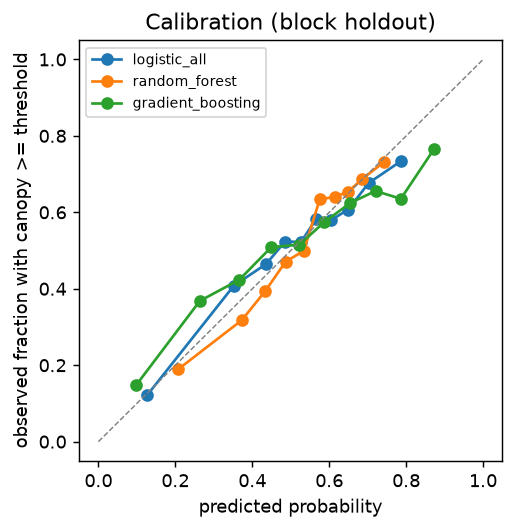
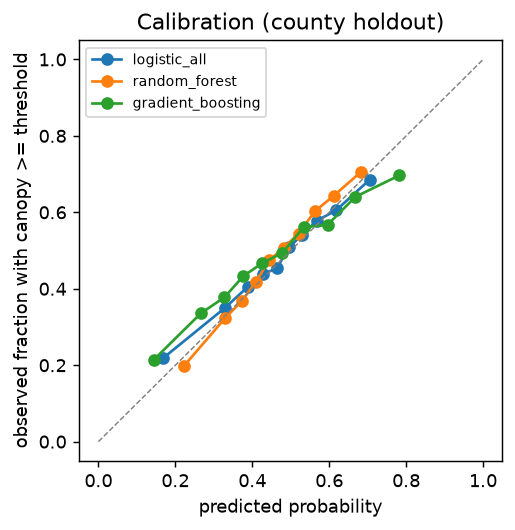
Expand to nine counties: county-holdout results, sensitivity checks, METHODS

Changed region(s): [[0.2485, 0.2717, 0.8699, 0.7547], [0.2485, 0.0, 0.8699, 0.0604]]

diff --git a/src/landscore/models/results_md.py b/src/landscore/models/results_md.py
@@ -45,7 +45,26 @@ def verdict(res: pd.DataFrame, headline: str) -> str:
     )
 
 
-def write_results(df, res, headline, best, figs, path: Path) -> None:
+def _per_county(pc, best) -> str:
+    if pc is None:
+        return ""
+    lines = [
+        f"## Each county held out in turn ({best})",
+        "",
+        "| held-out county | labeled pixels | positive rate | AUC | Brier skill |",
+        "|---|---|---|---|---|",
+    ]
+    for r in pc.itertuples(index=False):
+        lines.append(f"| {r[0]} | {r[1]:,} | {r[2]:.1%} | {r[3]:.3f} | {r[4]:.3f} |")
+    lines.append("")
+    lines.append(
+        "Brier skill below zero means the probabilities were worse than always guessing that "
+        "county's own average, usually because its positive rate differs from the training counties."
+    )
+    return "\n".join(lines) + "\n"
+
+
+def write_results(df, res, headline, best, figs, path: Path, per_county=None) -> None:
     cfg = load_config()
     lab = cfg["labels"]
     counties = ", ".join(sorted(df["county"].unique()))
@@ -83,6 +102,7 @@ base rate, 1 = perfect.
 
 ![model comparison]({figs.get("comparison", "")})
 
+{_per_county(per_county, best)}
 ## Regression target (canopy percent)
 
 {_table(res, "regression", ["r2", "spearman"])}

diff --git a/src/landscore/models/train.py b/src/landscore/models/train.py
@@ -119,7 +119,18 @@ def main(argv: list[str] | None = None) -> int:
     figs = write_figures(df, res, oof, headline, best, seed, a.docs_dir, shap=not a.no_shap)
     from landscore.models.results_md import write_results
 
-    write_results(df, res, headline, best, figs, a.docs_dir / "RESULTS.md")
+    per_county = None
+    if headline == "county":
+        y, pr = df["label_binary"].to_numpy(), oof[("binary", "county", best)]
+        per_county = pd.DataFrame(
+            [
+                {"held-out county": c, **ev.binary_metrics(y[m], pr[m])}
+                for c in sorted(df["county"].unique())
+                for m in [(df["county"] == c).to_numpy()]
+            ]
+        )[["held-out county", "n", "base_rate", "auc", "brier_skill"]]
+        per_county.to_csv(out / "per_county.csv", index=False)
+    write_results(df, res, headline, best, figs, a.docs_dir / "RESULTS.md", per_county)
     (out / "summary.json").write_text(
         json.dumps({"headline": headline, "best": best, "model": str(model_path)}, indent=2)
     )

diff --git a/src/landscore/models/figures.py b/src/landscore/models/figures.py
@@ -76,7 +76,7 @@ def _calibration(df, oof, headline) -> str:
     return _save(fig, "calibration.png")
 
 
-def _shap(df, best, seed, n=3000) -> str:
+def _shap(df, best, seed, n=1500) -> str:
     import shap
 
     spec = next(s for s in model_specs(list(df.columns)) if s.name == best)

diff --git a/docs/METHODS.md b/docs/METHODS.md
@@ -1,3 +1,146 @@
 # Methods
 
-Written at the end of the project (Phase 8). See `docs/STATUS.md` for progress.
+This page explains how Land Score works, for a science fair judge or a forester. Numbers live
+in [`RESULTS.md`](RESULTS.md) and [`SENSITIVITY.md`](SENSITIVITY.md), which are generated by
+the code. Every change of plan is logged in [`DECISIONS.md`](DECISIONS.md).
+
+## The question
+
+Roots of Tomorrow plants native trees on land that owners offer. For an offered plot, we want
+to know how readily trees should establish there, before anyone plants.
+
+The score describes **site potential**. It is not a promise that planted trees will survive.
+Survival depends heavily on care after planting, especially weed control and deer protection.
+
+## Why a stand-in is needed
+
+No public dataset records where trees were planted in Ohio and whether they lived. So the
+model learns from something that can be observed everywhere: **farm fields that stopped being
+farmed, and how much tree cover grew back on its own.** Land where trees returned quickly
+without help is land where trees establish easily.
+
+This stand-in has a known gap: natural regrowth needs a seed source nearby, while planted
+seedlings do not. See "Limits" below.
+
+## Study area and grid
+
+Nine counties in Northeast Ohio: Geauga (pilot), Cuyahoga, Lorain, Ashtabula, Lake, Portage,
+Summit, Trumbull, and Medina. Everything is put on one grid of 30 m squares (pixels), the
+same grid the land cover maps use (CONUS Albers, EPSG:5070).
+
+## Data
+
+All sources are public and need no account. `landscore fetch` downloads only the part
+covering each county and records each file's source and checksum in `data/manifest.json`.
+
+| Layer | Source | Years | Native detail |
+|---|---|---|---|
+| Land cover | USGS Annual NLCD, Collection 1.1 | 1985–2024, yearly | 30 m |
+| Tree canopy cover | USFS Tree Canopy Cover, Science product v2025-6 | 1985–2025, yearly | 30 m |
+| Soil | USDA gNATSGO map units + Soil Data Access tables | survey | 10 m map units |
+| Elevation | USGS 3DEP 1/3 arc-second | — | about 10 m |
+| Climate | NOAA nClimGrid normals | 1991–2020 average | about 5 km |
+| County outlines | US Census cartographic boundaries 2023 | — | 1:500,000 |
+
+## Labels: what the model is trained to predict
+
+For every pixel we read its 40-year land cover history and apply these rules
+(`config/study.yaml`, tested in `tests/test_labels.py`):
+
+1. **Farmed.** The pixel was pasture/hay or cultivated crops for at least 3 years in a row.
+2. **Stopped.** It then left those classes and stayed out for at least 3 years in a row. The
+   first year out is the *abandonment year*, and it must fall in 1988–2009.
+3. **Not a human conversion.** If the pixel became developed land or water, or was farmed
+   again, before the outcome was measured, it is dropped. A person decided its fate, which
+   says nothing about the site.
+4. **Open at the start.** Tree canopy the year before abandonment was at most 10%.
+5. **Outcome.** Tree canopy cover **15 years after** the abandonment year.
+
+The outcome is used two ways: as a percent (regression) and as yes/no, "did canopy reach
+40%?" (binary). The score uses the binary form.
+
+Only abandoned fields are used. If all land were included, the model would mostly learn who
+chose to stop farming, which is a human decision and tells little about the land.
+
+**What we found:** farmland here is persistent. In Geauga, 77% of pixels farmed in 1990 were
+still pasture in 2024, and most that changed became developed. Abandoned-and-left-alone land is
+rare, so labels are a small share of each county, and many sit on field edges next to forest.
+
+## Features: what the model may look at
+
+Only things knowable before regrowth began (`src/landscore/features/registry.py`):
+
+- **Soil:** drainage class, available water storage, depth to water table, pH, sand, clay,
+  organic matter, hydrologic group, the survey's own seedling mortality rating, forest site index.
+- **Terrain:** elevation, slope, direction the slope faces, wetness index, position on the slope.
+- **Climate:** average yearly precipitation and temperature.
+- **Landscape at the start:** distance to the nearest forest, percent forest within 100 m and
+  500 m, and whether the field was pasture or crops. These come from the land cover map of
+  the year *before* abandonment.
+
+**Leakage rule.** A model can cheat if a feature secretly contains the answer, for example a
+recent satellite image that shows the trees that grew. So every vegetation-related feature
+carries its measurement year, and a test fails if that year is not earlier than the
+abandonment year (`tests/test_leakage.py`). Soil, terrain, and climate are treated as fixed
+properties of the site. Recent imagery is never a feature.
+
+## Models
+
+Simple baselines come first, because a complicated model is only worth using if it beats them:
+
+1. The soil survey's seedling mortality rating alone.
+2. Distance to the nearest forest alone.
+3. Logistic regression on all features.
+
+Main models: random forest and gradient-boosted trees (scikit-learn). The score is the
+model's estimated probability, times 100, that a pixel reaches the canopy target.
+
+No large language model is used anywhere in scoring.
+
+## Validation
+
+- **County holdout (headline).** Train on eight counties, test on the ninth, and repeat for
+  each county. This asks whether the model works somewhere it has never seen.
+- **Spatial blocks.** Hold out 5 km squares.
+- **Random split.** Shown only for contrast. Neighboring pixels look alike, so a random split
+  lets the model peek at the test area and gives numbers that are too high. The gap between
+  random and county holdout shows how much.
+- **Calibration.** When the model says 70%, do about 70% of such pixels reach the target?
+- **Feature importance** with SHAP values, to see what drives the score.
+- **Sensitivity.** Results are recomputed after dropping tiny patches and forest-edge pixels,
+  and label counts are shown for other lags and thresholds.
+
+Still to do, with reserved space in `RESULTS.md`:
+
+- **Forester check.** A forester ranks about 20 plots without seeing scores.
+- **Roots case studies.** Scores for Roots' own planting sites against what happened there.
+- **Lidar check.** Compare canopy labels with canopy height from 2019–2020 lidar.
+
+## The plot report
+
+`landscore report plot.geojson` returns, for the pixels inside the plot:
+
+1. **Score map and summary** from the trained model, using today's landscape (2024 land cover)
+   for the forest-distance features.
+2. **Species fit**, a lookup table matching native trees to the plot's drainage and pH. It is
+   a draft compiled from general references and must be reviewed by a forester.
+3. **Planning flags**, simple rules: wet soil, competing vegetation, likely deer pressure
+   (a rough proxy from the forest/open-land mix), steep slope.
+4. The site-potential caveat.
+
+## Limits
+
+- **Stand-in, not survival.** The model predicts natural regrowth on old fields. Planted
+  trees with good care can do well on low-scoring sites, and badly on high-scoring ones
+  without care.
+- **Seed source.** Distance to forest matters a lot for natural regrowth but much less for
+  planted seedlings. A high score partly means "close to forest", which a planting crew does
+  not need.
+- **Edge noise.** Many labeled pixels are single pixels along field edges, where a class
+  change can be a mapping artifact. See `SENSITIVITY.md`.
+- **Map errors.** Land cover and canopy maps come from satellite models and carry their own
+  errors. Canopy percent is noisy for individual pixels.
+- **Coarse layers.** Soil map units are generalized. Climate is on a 5 km grid.
+- **Small plots.** A one-acre plot is about 4 pixels. Read the score as a rough guide.
+- **Deer and management are not modeled.** Deer pressure is only a rough flag.
+- **One region.** The model has only seen Northeast Ohio.

diff --git a/docs/RESULTS.md b/docs/RESULTS.md
@@ -1,47 +1,63 @@
 # Results
 
 Generated by `uv run landscore train` on 2026-11-13. Do not edit by hand;
-rerun the command. Counties: Geauga. Labeled pixels: 5,545
-(positive rate 52.2%).
+rerun the command. Counties: Ashtabula, Cuyahoga, Geauga, Lake, Lorain, Medina, Portage, Summit, Trumbull. Labeled pixels: 49,563
+(positive rate 47.9%).
 
 Target: canopy cover >= 40% measured 15 years after a
 field stopped being farmed (abandonment 1988-2009).
 This is a stand-in for planting success. It measures site potential for natural regrowth,
 not survival of planted trees.
 
-Validation: **No county holdout yet: only one county is built.** The headline here is **block** (5 km spatial blocks), which is weaker evidence than county holdout. Do not quote these numbers as county-holdout results. **block** = 5 km spatial blocks. **random** = random 5-fold
+Validation: **county** = leave one county out (headline). **block** = 5 km spatial blocks. **random** = random 5-fold
 (optimistic, shown for contrast).
 
 ## Verdict
 
-Under block holdout the best main model (random_forest, AUC 0.692) beats the best baseline (logistic_all, AUC 0.669) by +0.023 AUC.
+Under county holdout the best main model (random_forest, AUC 0.671) beats the best baseline (logistic_all, AUC 0.646) by +0.025 AUC.
 
 ## Binary target (canopy >= 40%)
 
-| model | auc (block) | brier_skill (block) | auc (random) | brier_skill (random) |
-|---|---|---|---|---|
-| baseline_seedling_mortality | 0.469 | -0.012 | 0.516 | 0.001 |
-| baseline_distance_to_forest | 0.581 | 0.077 | 0.602 | 0.082 |
-| logistic_all | 0.669 | 0.100 | 0.692 | 0.128 |
-| random_forest | 0.692 | 0.119 | 0.753 | 0.201 |
-| gradient_boosting | 0.684 | 0.093 | 0.761 | 0.216 |
+| model | auc (county) | brier_skill (county) | auc (block) | brier_skill (block) | auc (random) | brier_skill (random) |
+|---|---|---|---|---|---|---|
+| baseline_seedling_mortality | 0.493 | -0.002 | 0.526 | 0.005 | 0.532 | 0.006 |
+| baseline_distance_to_forest | 0.557 | 0.044 | 0.574 | 0.046 | 0.579 | 0.046 |
+| logistic_all | 0.646 | 0.067 | 0.673 | 0.090 | 0.675 | 0.094 |
+| random_forest | 0.671 | 0.088 | 0.698 | 0.119 | 0.747 | 0.180 |
+| gradient_boosting | 0.659 | 0.068 | 0.684 | 0.097 | 0.756 | 0.200 |
 
 AUC: 0.5 = chance, 1 = perfect ranking. Brier skill: 0 = no better than always predicting the
 base rate, 1 = perfect.
 
 ![model comparison](figures/model_comparison.png)
 
+## Each county held out in turn (random_forest)
+
+| held-out county | labeled pixels | positive rate | AUC | Brier skill |
+|---|---|---|---|---|
+| Ashtabula | 11,689 | 53.0% | 0.647 | 0.035 |
+| Cuyahoga | 395 | 39.2% | 0.653 | 0.049 |
+| Geauga | 5,545 | 52.2% | 0.679 | 0.083 |
+| Lake | 2,073 | 37.0% | 0.668 | 0.057 |
+| Lorain | 4,708 | 30.6% | 0.651 | 0.056 |
+| Medina | 5,223 | 47.1% | 0.695 | 0.110 |
+| Portage | 8,483 | 46.8% | 0.697 | 0.104 |
+| Summit | 2,329 | 48.6% | 0.661 | 0.076 |
+| Trumbull | 9,118 | 51.6% | 0.669 | 0.068 |
+
+Brier skill below zero means the probabilities were worse than always guessing that county's own average, usually because its positive rate differs from the training counties.
+
 ## Regression target (canopy percent)
 
-| model | r2 (block) | spearman (block) | r2 (random) | spearman (random) |
-|---|---|---|---|---|
-| baseline_seedling_mortality | -0.027 | -0.080 | 0.002 | 0.035 |
-| baseline_distance_to_forest | 0.191 | 0.237 | 0.197 | 0.262 |
-| logistic_all | 0.212 | 0.375 | 0.252 | 0.414 |
-| random_forest | 0.245 | 0.436 | 0.371 | 0.548 |
-| gradient_boosting | 0.169 | 0.367 | 0.427 | 0.587 |
+| model | r2 (county) | spearman (county) | r2 (block) | spearman (block) | r2 (random) | spearman (random) |
+|---|---|---|---|---|---|---|
+| baseline_seedling_mortality | -0.012 | -0.032 | 0.003 | 0.044 | 0.005 | 0.061 |
+| baseline_distance_to_forest | 0.084 | 0.158 | 0.091 | 0.194 | 0.091 | 0.205 |
+| logistic_all | 0.092 | 0.300 | 0.133 | 0.356 | 0.145 | 0.366 |
+| random_forest | 0.133 | 0.367 | 0.197 | 0.430 | 0.296 | 0.531 |
+| gradient_boosting | 0.115 | 0.342 | 0.184 | 0.412 | 0.342 | 0.558 |
 
-## Calibration (block holdout)
+## Calibration (county holdout)
 
 ![calibration](figures/calibration.png)
 

diff --git a/docs/SENSITIVITY.md b/docs/SENSITIVITY.md
@@ -1,0 +1,29 @@
+# Sensitivity checks
+
+Generated by `uv run landscore sensitivity` on 2026-11-13. Counties: Ashtabula, Cuyahoga, Geauga, Lake, Lorain, Medina, Portage, Summit, Trumbull.
+
+## A. Label counts for other lags and thresholds
+
+Lag = years between a field leaving farming and the canopy measurement. The abandonment
+window ends where the data run out for that lag. `pos_rate_T` = share of labeled pixels with
+canopy >= T percent.
+
+| lag | labeled | window_end | pos_rate_20 | pos_rate_30 | pos_rate_40 | pos_rate_50 |
+|---|---|---|---|---|---|---|
+| 10.0 | 56390.0 | 2014.0 | 0.793 | 0.53 | 0.352 | 0.224 |
+| 15.0 | 49563.0 | 2009.0 | 0.845 | 0.638 | 0.479 | 0.345 |
+| 20.0 | 43702.0 | 2004.0 | 0.888 | 0.736 | 0.603 | 0.485 |
+
+## B. Do results survive dropping likely edge noise?
+
+Small patches and pixels touching forest may be mapping noise along field edges, not real
+abandonment. Each row retrains on a subset. Holdout AUC is the honest number; random-split AUC
+is shown for contrast.
+
+| subset | n | positive_rate | holdout | logistic_all AUC (county) | logistic_all AUC (random) | random_forest AUC (county) | random_forest AUC (random) | gradient_boosting AUC (county) | gradient_boosting AUC (random) |
+|---|---|---|---|---|---|---|---|---|---|
+| all labeled pixels | 49563 | 0.479 | county | 0.646 | 0.675 | 0.671 | 0.747 | 0.659 | 0.756 |
+| patch >= 4 px | 21151 | 0.487 | county | 0.683 | 0.722 | 0.706 | 0.816 | 0.696 | 0.841 |
+| patch >= 9 px | 11780 | 0.475 | county | 0.706 | 0.762 | 0.717 | 0.868 | 0.72 | 0.891 |
+| not touching forest (dist > 30 m) | 11419 | 0.316 | county | 0.629 | 0.698 | 0.681 | 0.806 | 0.672 | 0.819 |
+| patch >= 4 px and dist > 30 m | 7263 | 0.303 | county | 0.662 | 0.749 | 0.714 | 0.859 | 0.708 | 0.883 |

diff --git a/docs/STATUS.md b/docs/STATUS.md
@@ -2,6 +2,33 @@
 
 Newest session at the top. Update at the end of every work session.
 
+## 2026-11-13 — Claude Code session 2 (Nathan's machine)
+
+**Works now**
+- All nine counties fetched (0.9 GB raw, 1.5 GB with derived layers), labeled, and modeled.
+- 49,563 labeled pixels, 47.9% positive (canopy >= 40% after 15 years).
+- Leave-one-county-out AUC: random forest 0.671, gradient boosting 0.659, logistic 0.646,
+  distance to forest 0.557, seedling mortality rating 0.493. Random split: 0.747 / 0.756.
+  Every held-out county lands between 0.65 and 0.70. See `docs/RESULTS.md`.
+- `landscore sensitivity` writes `docs/SENSITIVITY.md` (lag/threshold counts, edge-noise subsets).
+- `docs/METHODS.md` written. Quick-look and label maps for Geauga checked by eye: fine.
+
+**Not done / not verified**
+- Quick-look maps for the other eight counties have not been generated or looked at.
+- Minimum patch size for labels is an open decision (see DECISIONS, last entry).
+- Species table still a draft (issue #21). Lidar check not built (issue #17).
+- Human checks (issues #25, #26) not started.
+- `pipeline.yml` untested (needs to be on `main` first).
+
+**Blocked**
+- PRs #27 and the phase-6 PR are open; Claude is not permitted to merge. Merge #27 first.
+
+**Next**
+1. Merge the two PRs in order.
+2. Decide on the minimum patch size (look at a sample of single-pixel labels on imagery).
+3. Issue #21: forester review of the species table; issue #25: blind ranking protocol.
+4. Issue #17: lidar canopy-height check.
+
 ## 2026-11-13 — Claude Code session 1 (Nathan's machine)
 
 **Works now (Geauga pilot, end to end)**

diff --git a/docs/DECISIONS.md b/docs/DECISIONS.md
@@ -120,3 +120,21 @@ Newest at the bottom.
 
 - GitHub branch protection is unavailable for private repos on the free plan. "No direct
   commits to main" is a convention enforced by habit and CI, not by GitHub.
+
+## 2026-11-13 — All nine counties built; edge-noise filter left as an open choice
+
+- **Done:** Cuyahoga, Lorain, Ashtabula, Lake, Portage, Summit, Trumbull, Medina added to
+  Geauga. 49,563 labeled pixels. Leave-one-county-out is now the headline validation.
+- **Found (docs/SENSITIVITY.md):** keeping only labeled patches of 4+ pixels raises
+  county-holdout AUC for random forest from 0.671 to 0.706 (9+ pixels: 0.717), with 21,151
+  pixels left. Pixels not touching forest still give 0.681. Single-pixel labels look like
+  mapping noise, and the signal is not only a forest-edge artifact.
+- **Not changed yet:** the shipped model still trains on all labeled pixels. Adopting a
+  minimum patch size after seeing test scores is a form of tuning, so it should be a
+  deliberate choice by Nathan and Karan (and ideally justified by looking at imagery of a
+  sample of single-pixel labels), not something slipped in.
+- **Lag and threshold:** 15-year lag with a 40% threshold stays. It is the most balanced
+  (48% positive); a 10-year lag gives more pixels (56,390) but only 35% positive at 40%.
+- **Binary vs regression:** binary is used for the score. Regression under county holdout is
+  weak (random forest R² 0.13), while the binary ranking is more stable across counties
+  (AUC 0.65–0.70 in every held-out county).
